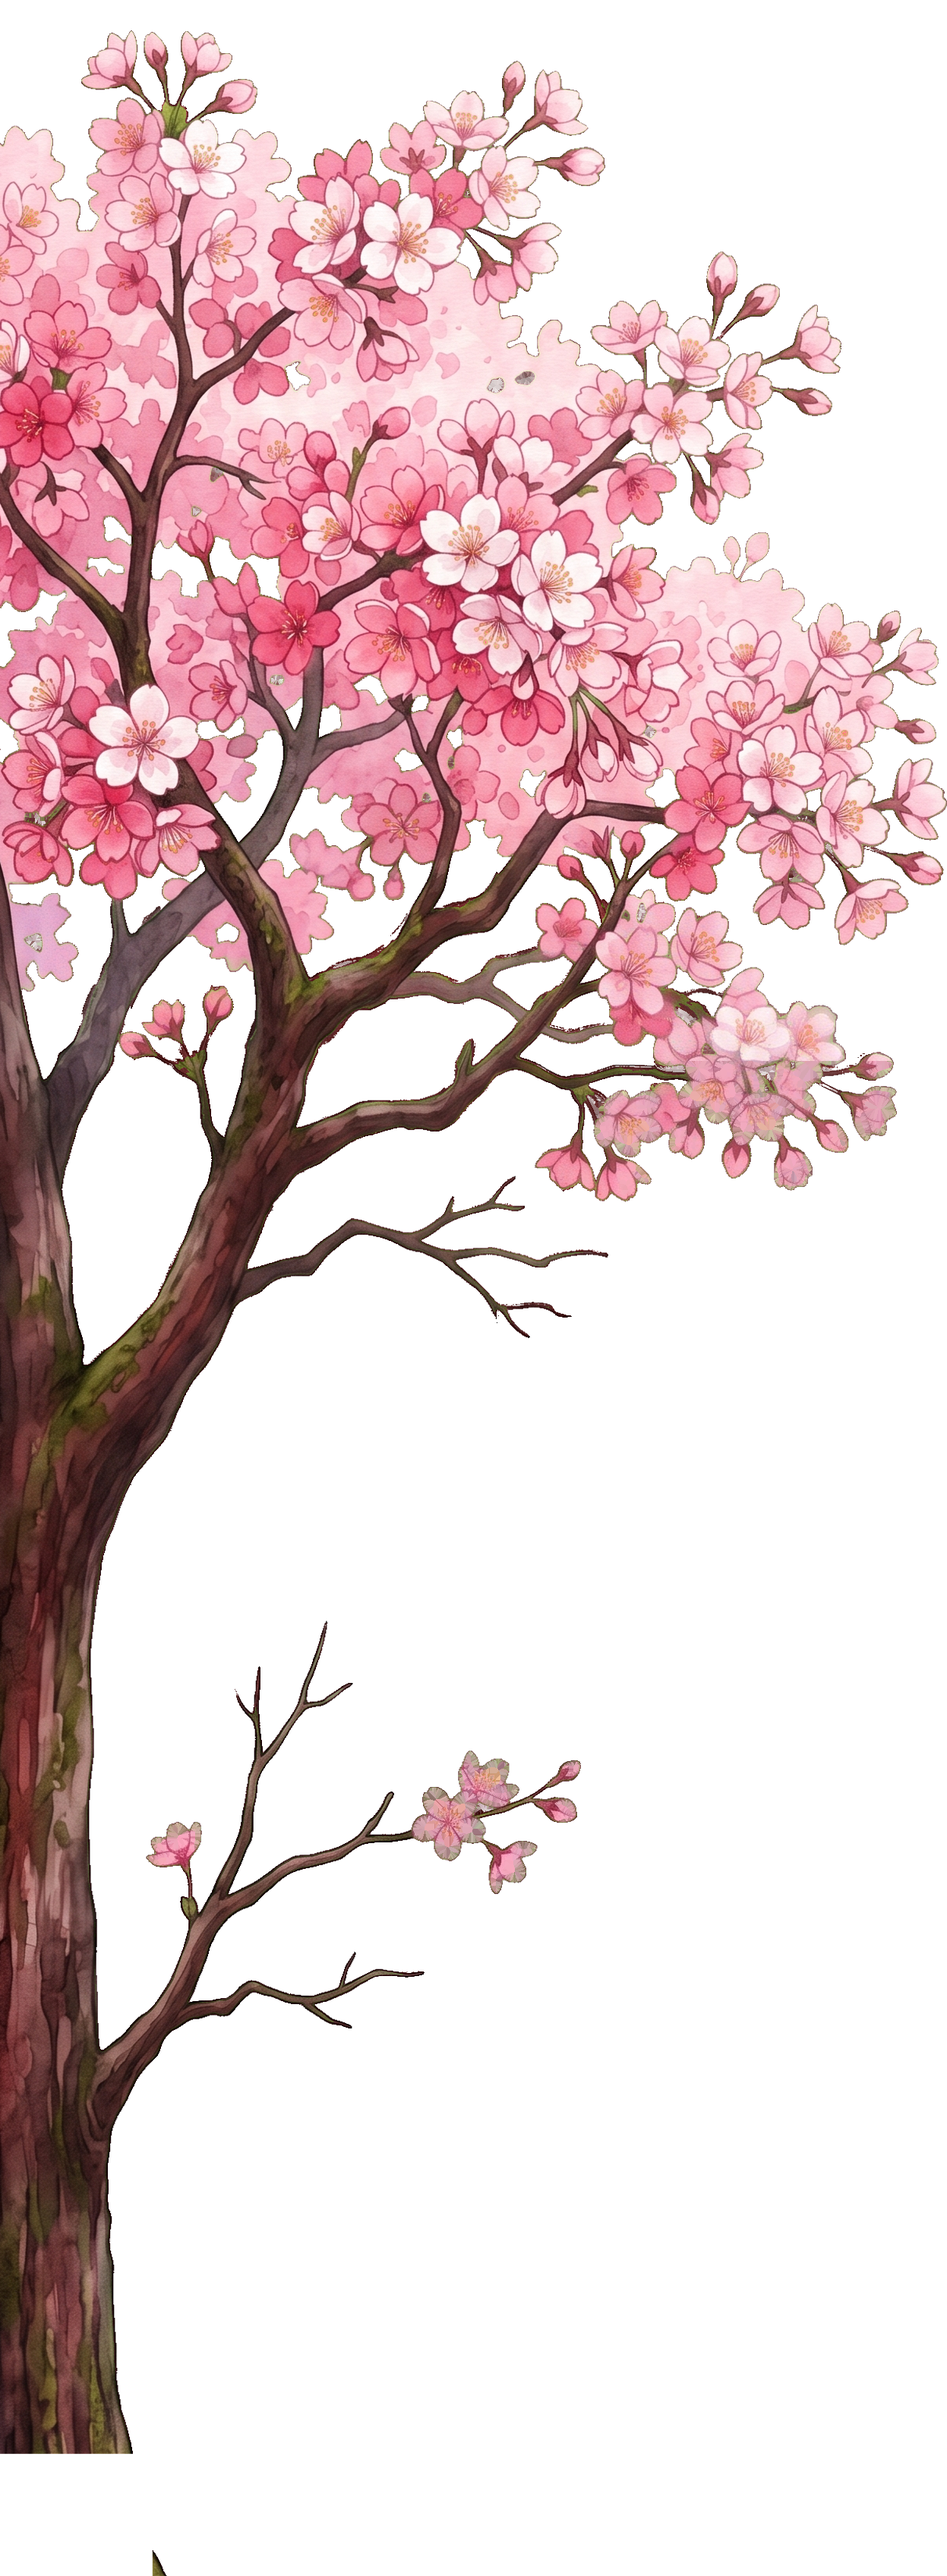
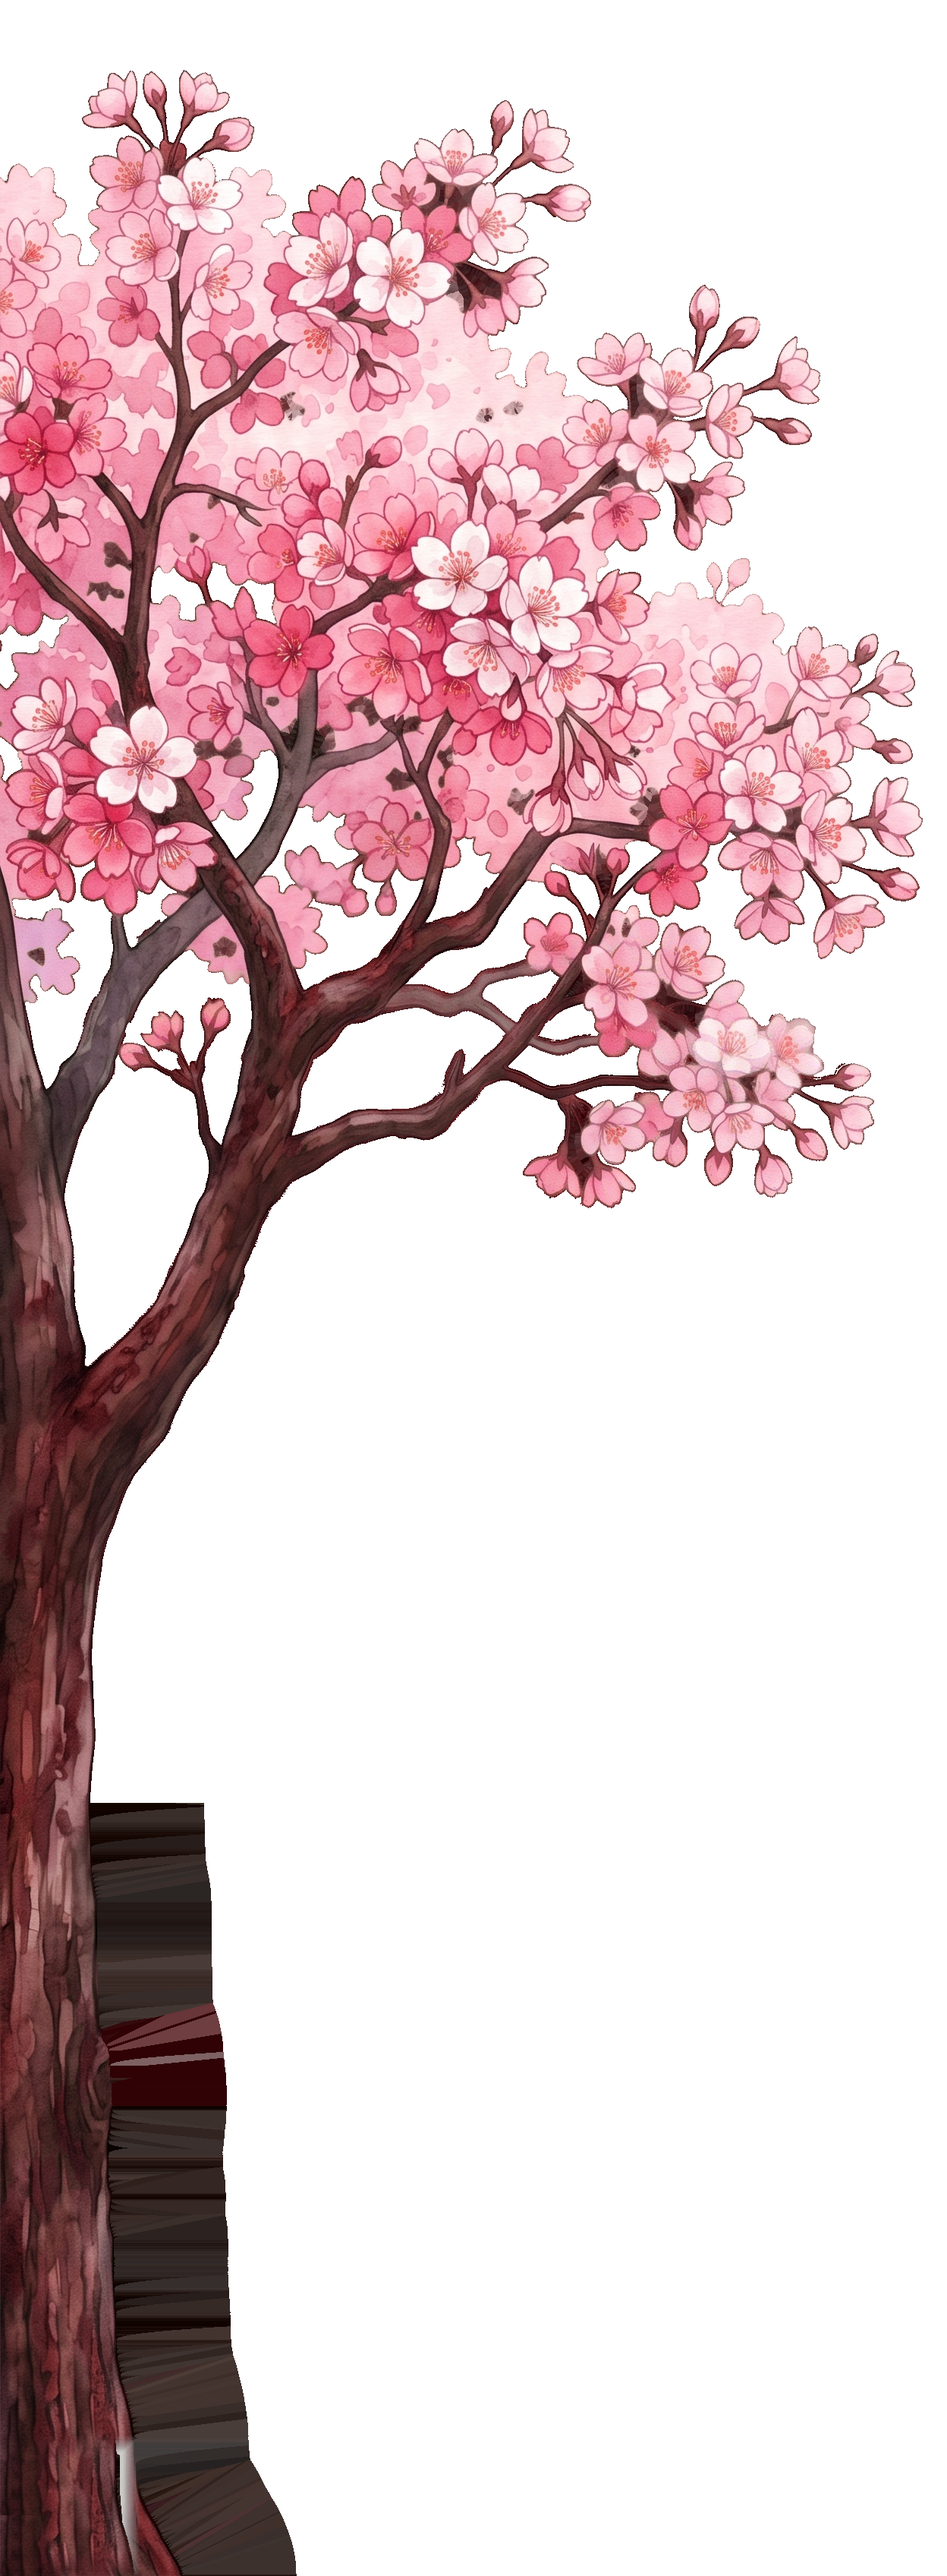
fix: right 유저 편집본 복원 + 빵꾸 inpaint + bark 롤백
유저 보고: "애써 right 직접 지운거 롤빽시켜놨네 씨발람이. 나뭇가지 지운건 왜 쳐건드는데. 니가 그냥 색 비슷하게 칠해. 제미나이 지우고 빵꾸난 곳도 색 비슷하게 칠해"

직전 rebuild_sakura_tree.py 가 right 를 left-flip 으로 덮어써서 유저 직접 편집본 날아감. 즉시 복원.

1) 트리 이미지 복원 — versions/sakura_tree_pre_holefill_v2/ 에서 left/right 복원 (user-edit 보존된 마지막 상태)
2) 빵꾸 inpaint (scripts/inpaint_user_edit_holes.py):
   - 내부 hole <=1500px: 유저가 지운 나뭇가지 자리 + 기타 중간 크기 hole. 주변 나무색으로 채움
   - 큰 sky patch (>1500px): 나뭇가지 사이 자연 sky 로 유지 (이전에 이거 채워서 "깨진 부분" 문제 생겼음)
   - 하단 30% 영역 투명: Gemini 워터마크 제거 자리. 주변 opaque 거리 <=150px 인 곳만 inpaint
   - 결과: left 20K 내부 + 312K 워터마크 자리, right 20K + 156K 자리 inpaint
3) bark gradient 롤백 (index.html) — pink-rose 과다 변경 → 원래 갈색 톤 (rgba(42,24,16) / (58,36,24) / (34,19,10))

diff --git a/index.html b/index.html
@@ -13,7 +13,7 @@
 <script>
 // ★ 빌드 타임스탬프 — 매 index.html 업데이트 시 자동 증가. 업데이트 감지용.
 // diag: gamble revert + 업데이트 감지 진단 강화 (__BUILD_TS 선곡화면 노출)
-window.__BUILD_TS = 20260424190826;
+window.__BUILD_TS = 20260424191305;
 // ★ Firebase goOffline 부작용 — 인게임 진입 시 fbDb.goOffline() 호출하면 in-flight 중이던
 //   .set()/.once() Promise 들이 "Error: disconnect" 로 reject. 모두 fire-and-forget (결과 무관)
 //   이라 의도된 현상이지만 .catch 없이 쏘고 있어 "Uncaught (in promise)" 경고 스팸 발생.
@@ -9217,11 +9217,10 @@ function renderBackplate() {
       // 수직 그라데이션 (상단 캐노피 핑크 힌트 → 중간 bark 갈색 → 하단 진한 trunk)
       // 테두리만 딱딱한 선이 아니라 은은한 그라데이션으로 자연스러움
       const g = ctx.createLinearGradient(0, -safeTop, 0, H + safeBottom);
-      // 벚꽃 테마 풀 pink-rose gradient — 기존 단조 갈색 대신 캐노피 로즈 → bark
-      g.addColorStop(0, 'rgba(220,135,170,0.72)');   // 상단 연한 벚꽃 로즈 (캐노피)
-      g.addColorStop(0.3, 'rgba(175,90,95,0.78)');   // 중상 rose-bark
-      g.addColorStop(0.6, 'rgba(125,62,50,0.85)');   // 중하 bark
-      g.addColorStop(1, 'rgba(60,28,22,0.9)');       // 하단 진한 trunk
+      // 원래 bark 톤 (갈색 단조) — 유저가 배경 건드리지 말라 함
+      g.addColorStop(0, 'rgba(42,24,16,0.82)');
+      g.addColorStop(0.5, 'rgba(58,36,24,0.82)');
+      g.addColorStop(1, 'rgba(34,19,10,0.82)');
       window._barkGradCache = { g, _h: _vh, _t: safeTop };
     }
     ctx.fillStyle = window._barkGradCache.g;

diff --git a/scripts/inpaint_user_edit_holes.py b/scripts/inpaint_user_edit_holes.py
@@ -1,0 +1,79 @@
+"""
+유저가 직접 지운 나뭇가지 영역 (중간 크기 hole) + 우하단 Gemini 워터마크 자리 빵꾸
+를 주변 나무색으로 inpaint.
+
+처리 영역:
+1. 내부 hole (binary_fill_holes) — 크기 <=1500 px 만 inpaint (user-edit 메움).
+   나뭇가지 사이 큰 sky patch (수만 px) 는 유지.
+2. 이미지 하단 30% 영역의 투명 픽셀 중 주변 opaque (거리 <= 150 px) 있는 곳 inpaint.
+   = Gemini 워터마크 제거된 자리.
+"""
+import os
+import numpy as np
+from PIL import Image
+from scipy.ndimage import binary_fill_holes, distance_transform_edt, label
+
+ROOT = r'D:\nanorhythm-assets\nanorhythm-assets'
+CONTAINER = os.path.join(ROOT, 'skins', 'neon', 'container')
+
+HOLE_MAX = 1500
+WM_REGION_Y_RATIO = 0.7       # 하단 30%
+WM_INPAINT_MAX_DIST = 150     # nearest opaque 이 이만큼 이내에 있어야 inpaint
+
+for name in ['left', 'right']:
+    src = os.path.join(CONTAINER, f'sakura_tree_{name}.png')
+    img = Image.open(src).convert('RGBA')
+    arr = np.array(img)
+    h, w = arr.shape[:2]
+    print(f'{name}: {w}x{h}, {os.path.getsize(src)/1024:.0f} KB')
+
+    a = arr[:, :, 3]
+    mask = a > 50
+
+    # === 1) 내부 hole inpaint (<=1500px) ===
+    filled = binary_fill_holes(mask)
+    holes = filled & ~mask
+    lbl, n_labels = label(holes)
+    sizes = np.bincount(lbl.ravel())
+    internal_target = np.zeros_like(holes, dtype=bool)
+    fill_count = 0
+    fill_px = 0
+    sky_count = 0
+    sky_px = 0
+    for li in range(1, n_labels + 1):
+        if sizes[li] <= HOLE_MAX:
+            internal_target |= (lbl == li)
+            fill_count += 1
+            fill_px += int(sizes[li])
+        else:
+            sky_count += 1
+            sky_px += int(sizes[li])
+    print(f'  내부 hole: inpaint {fill_count} ({fill_px} px), sky 유지 {sky_count} ({sky_px} px)')
+
+    # === 2) 하단 워터마크 영역 inpaint (거리 <= 150px 제한) ===
+    dist, (iy, ix) = distance_transform_edt(~mask, return_distances=True, return_indices=True)
+    y_start = int(h * WM_REGION_Y_RATIO)
+    wm_region = np.zeros_like(mask, dtype=bool)
+    wm_region[y_start:, :] = True
+    wm_target = wm_region & ~mask & (dist <= WM_INPAINT_MAX_DIST)
+    wm_px = int(wm_target.sum())
+    print(f'  워터마크 영역 inpaint: {wm_px} px (거리 <= {WM_INPAINT_MAX_DIST})')
+
+    # 합쳐서 inpaint
+    total_target = internal_target | wm_target
+    if total_target.sum() > 0:
+        hy, hx = np.where(total_target)
+        sy, sx = iy[hy, hx], ix[hy, hx]
+        arr[hy, hx, 0] = arr[sy, sx, 0]
+        arr[hy, hx, 1] = arr[sy, sx, 1]
+        arr[hy, hx, 2] = arr[sy, sx, 2]
+        arr[hy, hx, 3] = arr[sy, sx, 3]
+
+    # 알파 threshold
+    a_new = arr[:, :, 3].astype(np.int32)
+    a_new = np.where(a_new < 40, 0, a_new)
+    arr[:, :, 3] = a_new.astype(np.uint8)
+
+    final = Image.fromarray(arr, 'RGBA')
+    final.save(src, optimize=True, compress_level=9)
+    print(f'  saved: {os.path.getsize(src)/1024:.0f} KB')
